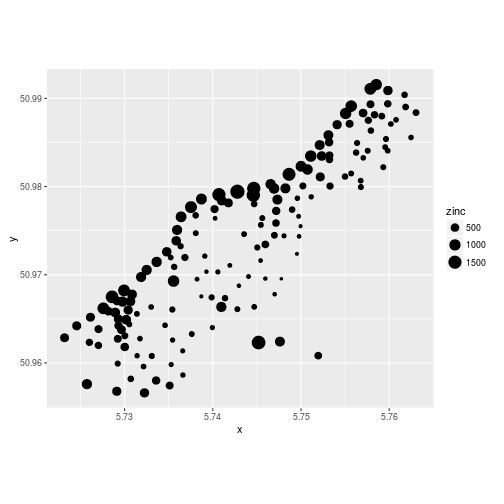
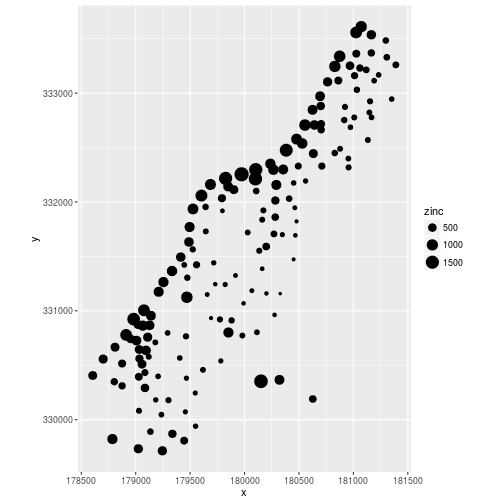
update

diff --git a/index.html b/index.html
@@ -727,8 +727,8 @@ data into the web mercator (epsg 3857) projection.</p>
 <pre><code class="r">merc = CRS(&quot;+init=epsg:3857&quot;)
 WGS84 = CRS(&quot;+init=epsg:4326&quot;)
 
-meuse = spTransform(meuse, WGS84)
-bgMap = get_map(as.vector(bbox(meuse)), source = &quot;google&quot;, zoom = 13) # useless without zoom level
+meuse.ll = spTransform(meuse, WGS84)
+bgMap = get_map(as.vector(bbox(meuse.ll)), source = &quot;google&quot;, zoom = 13) # useless without zoom level
 </code></pre>
 
 <pre><code>## Warning: bounding box given to google - spatial extent only approximate.
@@ -754,7 +754,7 @@ plot(spTransform(meuse, merc), bgMap = bgMap, pch = 16, cex = .5)
 
 <p>Using open streetmap background from <code>ggmap</code>:</p>
 
-<pre><code class="r">bb = t(apply(bbox(meuse), 1, bbexpand, .04))
+<pre><code class="r">bb = t(apply(bbox(meuse.ll), 1, bbexpand, .04))
 bgMap = get_map(as.vector(bb), source = &quot;osm&quot;) # WGS84 for background map
 plot(spTransform(meuse, merc), bgMap = bgMap, pch = 16, cex = .5)
 </code></pre>
@@ -763,7 +763,7 @@ plot(spTransform(meuse, merc), bgMap = bgMap, pch = 16, cex = .5)
 
 <p>Using <code>RgoogleMaps</code>:</p>
 
-<pre><code class="r">center = apply(coordinates(meuse), 2, mean)[2:1]
+<pre><code class="r">center = apply(coordinates(meuse.ll), 2, mean)[2:1]
 library(RgoogleMaps)
 g = GetMap(center=center, zoom=13) # google
 par(mar = rep(0,4)) # fill full device

diff --git a/sp_gallery.html b/sp_gallery.html
@@ -727,8 +727,8 @@ data into the web mercator (epsg 3857) projection.</p>
 <pre><code class="r">merc = CRS(&quot;+init=epsg:3857&quot;)
 WGS84 = CRS(&quot;+init=epsg:4326&quot;)
 
-meuse = spTransform(meuse, WGS84)
-bgMap = get_map(as.vector(bbox(meuse)), source = &quot;google&quot;, zoom = 13) # useless without zoom level
+meuse.ll = spTransform(meuse, WGS84)
+bgMap = get_map(as.vector(bbox(meuse.ll)), source = &quot;google&quot;, zoom = 13) # useless without zoom level
 </code></pre>
 
 <pre><code>## Warning: bounding box given to google - spatial extent only approximate.
@@ -754,7 +754,7 @@ plot(spTransform(meuse, merc), bgMap = bgMap, pch = 16, cex = .5)
 
 <p>Using open streetmap background from <code>ggmap</code>:</p>
 
-<pre><code class="r">bb = t(apply(bbox(meuse), 1, bbexpand, .04))
+<pre><code class="r">bb = t(apply(bbox(meuse.ll), 1, bbexpand, .04))
 bgMap = get_map(as.vector(bb), source = &quot;osm&quot;) # WGS84 for background map
 plot(spTransform(meuse, merc), bgMap = bgMap, pch = 16, cex = .5)
 </code></pre>
@@ -763,7 +763,7 @@ plot(spTransform(meuse, merc), bgMap = bgMap, pch = 16, cex = .5)
 
 <p>Using <code>RgoogleMaps</code>:</p>
 
-<pre><code class="r">center = apply(coordinates(meuse), 2, mean)[2:1]
+<pre><code class="r">center = apply(coordinates(meuse.ll), 2, mean)[2:1]
 library(RgoogleMaps)
 g = GetMap(center=center, zoom=13) # google
 par(mar = rep(0,4)) # fill full device
